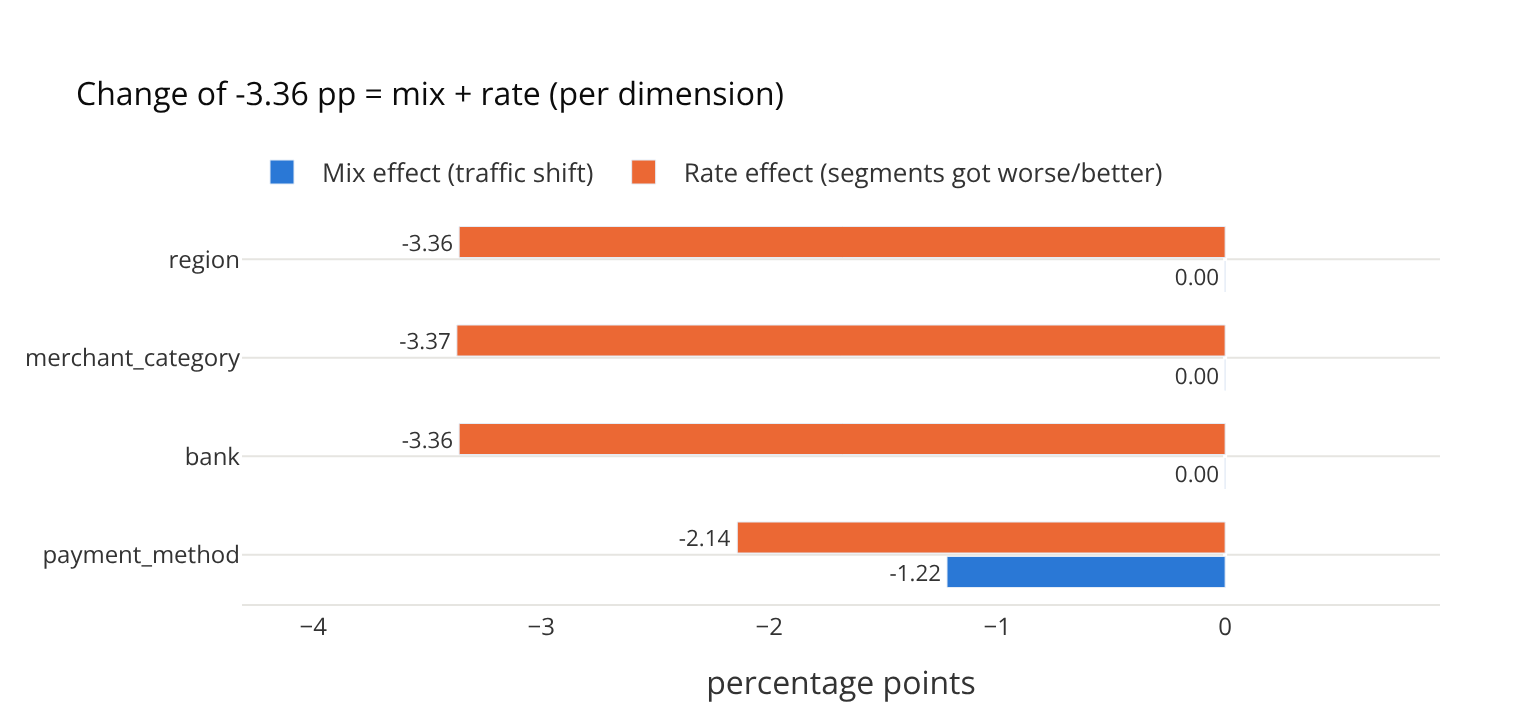
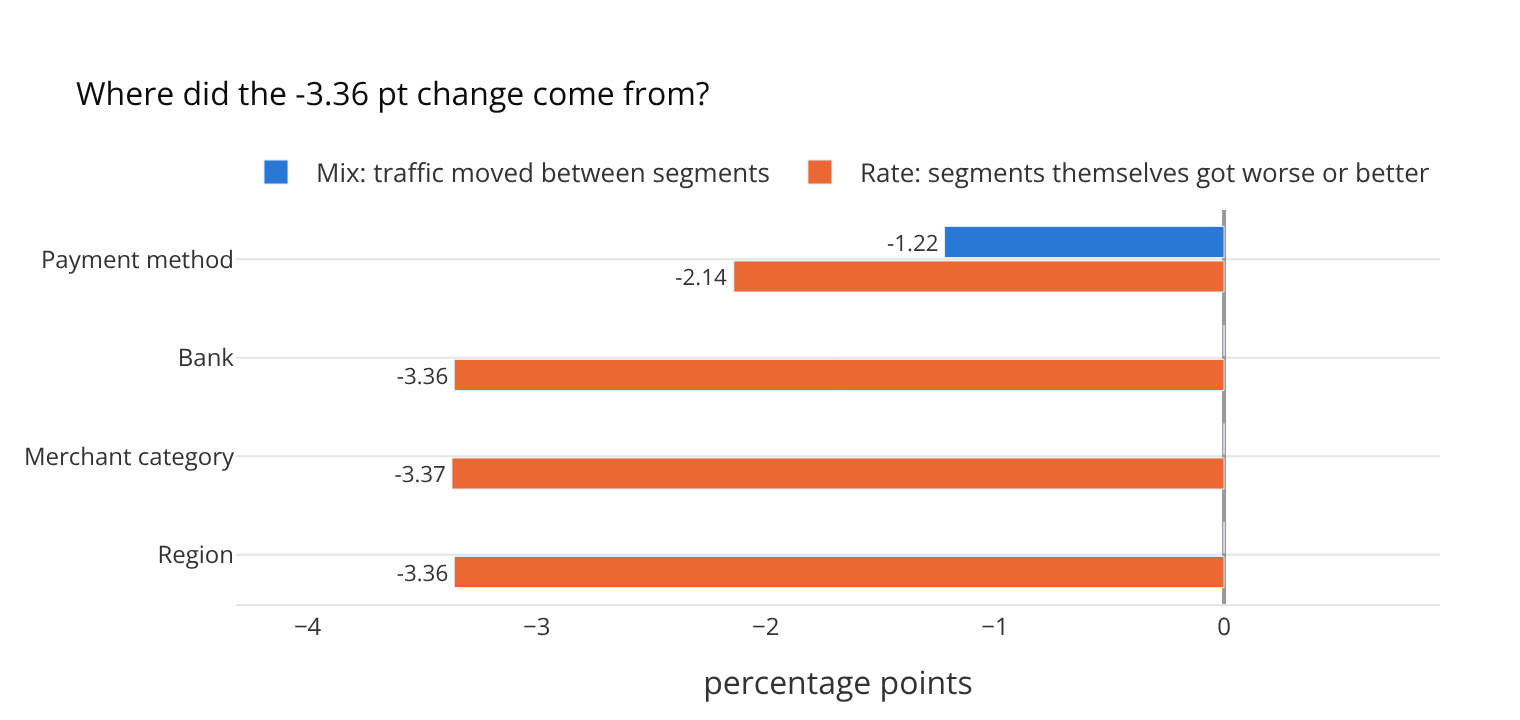
ui: clearer mix-vs-rate chart with one hover box per row

diff --git a/src/charts.py b/src/charts.py
@@ -44,23 +44,40 @@ def chart_weekly(trend, windows):
     return fig
 
 
+DIM_LABELS = {"payment_method": "Payment method", "bank": "Bank", "merchant_category": "Merchant category",
+              "region": "Region"}
+
+
 def chart_mix_rate(drivers):
-    dims = pd.DataFrame(drivers["dimensions"])
+    """One row per dimension. Each row splits the SAME total change into mix (blue) + rate (orange).
+    Hovering a row shows both parts in words, with their sum."""
+    dims = pd.DataFrame(drivers["dimensions"]).iloc[::-1]          # first dimension at the top
+    labels = [DIM_LABELS.get(d, d.replace("_", " ").capitalize()) for d in dims["dimension"]]
+    total = drivers["delta_pp"]
+
+    def text(values):                                              # no "0.00" clutter
+        return [f"{v:+.2f}" if abs(v) >= 0.005 else "" for v in values]
+
     fig = go.Figure()
-    fig.add_bar(y=dims["dimension"], x=dims["mix_effect_pp"], name="Mix effect (traffic shift)",
-                orientation="h", marker_color=BLUE, texttemplate="%{x:.2f}", textposition="outside",
-                cliponaxis=False)
-    fig.add_bar(y=dims["dimension"], x=dims["rate_effect_pp"], name="Rate effect (segments got worse/better)",
-                orientation="h", marker_color=ORANGE, texttemplate="%{x:.2f}", textposition="outside",
-                cliponaxis=False)
-    fig.update_traces(hovertemplate="<b>%{y}</b><br>%{fullData.name}: %{x:.2f} pts<extra></extra>")
+    # In a horizontal grouped bar the first trace is drawn lowest, so add rate first (mix on top)
+    fig.add_bar(y=labels, x=dims["rate_effect_pp"], name="Rate: segments themselves got worse or better",
+                orientation="h", marker_color=ORANGE, text=text(dims["rate_effect_pp"]), textposition="outside",
+                cliponaxis=False,
+                hovertemplate=f"Rate (segments got worse/better): %{{x:+.2f}} pts<br>"
+                              f"Mix + rate = {total:+.2f} pts<extra></extra>")
+    fig.add_bar(y=labels, x=dims["mix_effect_pp"], name="Mix: traffic moved between segments",
+                orientation="h", marker_color=BLUE, text=text(dims["mix_effect_pp"]), textposition="outside",
+                cliponaxis=False,
+                hovertemplate="Mix (traffic moved between segments): %{x:+.2f} pts<extra></extra>")
+    fig.update_layout(legend_traceorder="reversed")                 # legend still lists mix first
     fig.update_layout(barmode="group", bargap=0.3, bargroupgap=0.1)
-    fig = base_layout(fig, f"Change of {drivers['delta_pp']} pp = mix + rate (per dimension)", height=320,
-                      hovermode="closest")
+    fig = base_layout(fig, f"Where did the {total:+.2f} pt change come from?", height=340,
+                      hovermode="y unified")
     values = dims[["mix_effect_pp", "rate_effect_pp"]].to_numpy()
     low, high = min(values.min(), 0), max(values.max(), 0)       # works for a rise AND a decline
     pad = 0.25 * (high - low) + 0.1                              # room for the value labels
-    fig.update_xaxes(title="percentage points", range=[low - pad, high + pad])
+    fig.update_xaxes(title="percentage points", range=[low - pad, high + pad],
+                     zeroline=True, zerolinecolor="#999999")
     return fig
 
 

diff --git a/app.py b/app.py
@@ -89,10 +89,12 @@ def render_answer(out):
         c1.caption("**How to read:** each dot is one week's success rate. Orange = the period you asked "
                    "about. A sudden drop after a flat line means something changed that week.")
         c2.plotly_chart(chart_mix_rate(d), width="stretch", theme=None)
-        c2.caption(f"**How to read:** the total change ({d['delta_pp']} pts) split two ways, once per "
-                   "dimension. Blue = traffic moved between segments (mix). Orange = segments themselves "
-                   "got worse or better (rate). A dimension with a big blue bar explains part of the change "
-                   "by traffic shifting.")
+        c2.caption(f"**How to read:** each row splits the same {d['delta_pp']}-point change in two, using "
+                   "one way of grouping the traffic. **Blue (mix)** = part caused by traffic moving between "
+                   "groups, e.g. more payments going to a weaker payment method. **Orange (rate)** = part "
+                   "caused by the groups themselves getting worse or better. A row with a big blue bar means "
+                   "the traffic shift happened along that grouping. Hover over a row to see both parts. "
+                   "Values are rounded to 2 decimals.")
         c3, c4 = st.columns(2)
         m = d.get("mix_driver")
         if m:
